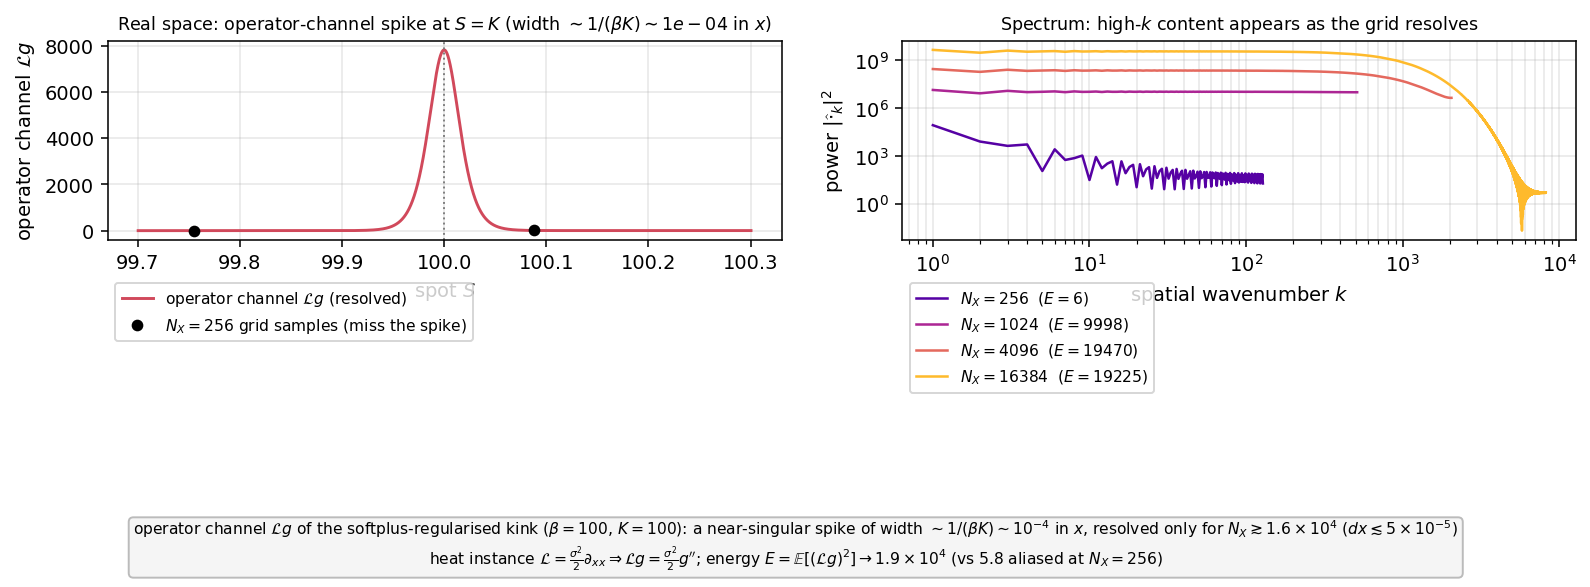
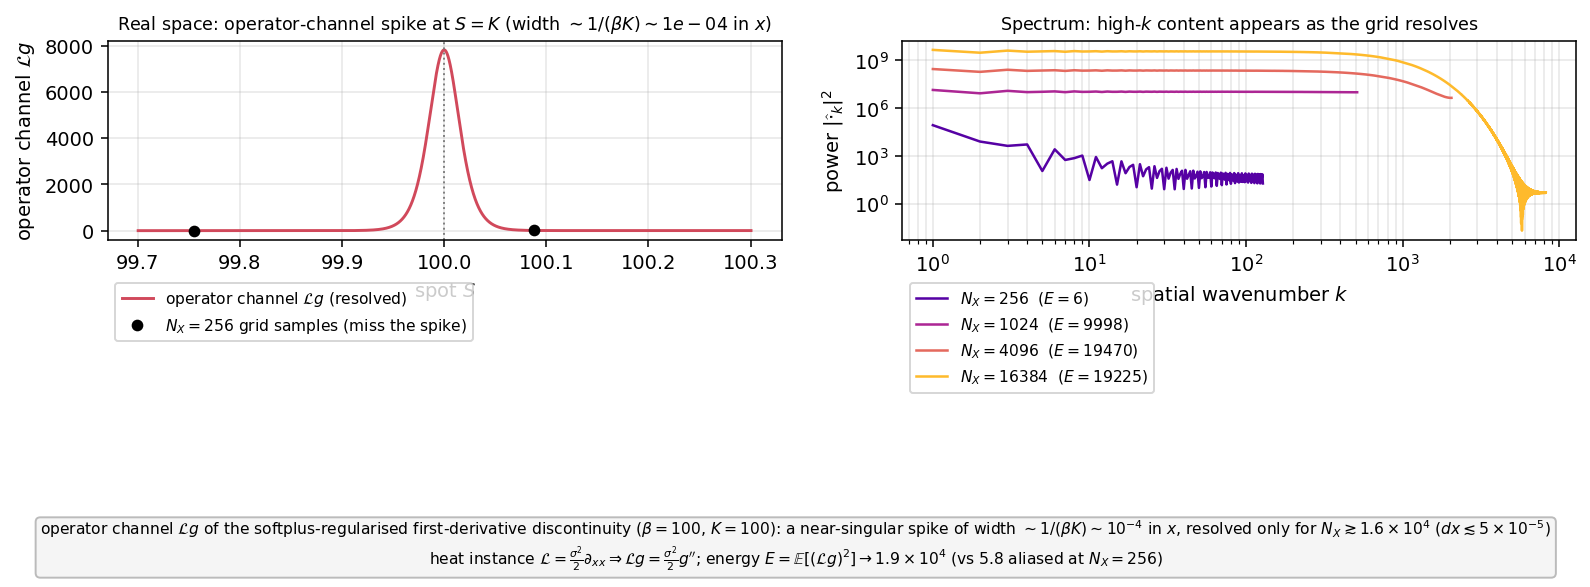
report: register cleanup in prose + regenerate figures with corrected labels
Replace 'kink' with 'first-derivative discontinuity' in the corollary,
proposition, toy-model prose, and figure captions; replace motion metaphors
(sits->lies, settles on->is). Regenerate the toy gap/amplification figures
and the operator-channel spike figure so the rendered legends/formulae read
'non-smooth'/'first-derivative discontinuity' (models unchanged; measured
values identical). Compiles clean (both passes).

Changed region(s): [[0.0308, 0.8586, 0.9862, 0.9199], [0.9245, 0.9813, 0.9862, 1.0], [0.0308, 0.9813, 0.0925, 1.0]]

diff --git a/documents/reports/2026-07-03_constrained_learning_spectral_and_induction/constrained_learning_spectral_and_induction.tex b/documents/reports/2026-07-03_constrained_learning_spectral_and_induction/constrained_learning_spectral_and_induction.tex
@@ -290,7 +290,7 @@ Chen--Mangasarian & soft     & $4.34\!\times\!10^{-3}\!\pm\!3\!\times\!10^{-4}$ 
 
 The unconstrained control ($\mathtt{pure\_nn}$) collapses to
 $\relLtwo\approx1$: the residual objective alone does not determine the solution
-(the homogeneous equation has many solutions), so the field settles on a trivial
+(the homogeneous equation has many solutions), so the learned field is a trivial
 one. It is omitted from the comparison plots for scale and is not tabulated as a
 competitor.
 
@@ -375,7 +375,7 @@ Corollary~\ref{cor:white}, and the achieved residual coincides with it across th
 band: the network cancels the low-wavenumber velocity channel but leaves the
 operator spike uncancelled (Empirical finding~\ref{find:residual}). For the
 Chen--Mangasarian extension the operator channel is band-limited and the residual
-sits far below both channels --- it is cancellable. Figure~\ref{fig:h2-spike}
+lies far below both channels --- it is cancellable. Figure~\ref{fig:h2-spike}
 shows the softplus operator channel resolving from an aliased artefact into the
 broadband plateau as the grid refines, with its band-integrated energy converging
 to $\approx1.9\times10^{4}$.
@@ -383,7 +383,7 @@ to $\approx1.9\times10^{4}$.
 \begin{figure}[htbp]\centering
   \includegraphics[width=0.98\textwidth]{figures/2026-06-12_operator_channel_spike.png}
   \caption{Resolving the softplus operator channel. Left: the curvature spike in
-    real space, which a coarse grid steps over. Right: its spectrum converging to
+    real space, which a coarse grid does not resolve. Right: its spectrum converging to
     a plateau as the grid refines.}\label{fig:h2-spike}
 \end{figure}
 
@@ -442,7 +442,7 @@ oracle (exact continuation) & --- & $1.2\times10^{-3}$\\
 \begin{figure}[htbp]\centering
   \includegraphics[width=0.82\textwidth]{figures/2026-06-13_bermudan_inception.png}
   \caption{Inception price. Solid: learned. Dashed (same colour): exact for that
-    $\numExerciseDates$. The learned values sit above the European put (a positive
+    $\numExerciseDates$. The learned values lie above the European put (a positive
     early-exercise premium) and increase with $\numExerciseDates$.}\label{fig:h3-price}
 \end{figure}
 
@@ -453,7 +453,7 @@ per-stage terminal mismatch ($\boundaryResidual\approx7\times10^{-3}$,
 Table~\ref{tab:main}) is inherited by the stage below and accumulates, whereas the
 hard form carries none. The exact-continuation oracle reaches $1.2\times10^{-3}$,
 so the representational limit of a single learned stage is small; the learned
-chain's larger error is the price of learning, rather than being handed, the
+chain's larger error is attributable to learning, rather than being supplied, the
 continuation. Measured, one seed. Hypothesis~H3 holds.
 \end{finding}
 
@@ -482,12 +482,12 @@ The close agreement at $\numExerciseDates=2,3$ ($3.18\times10^{-2}$ against
 $3.09\times10^{-2}$) does not persist: at $\numExerciseDates=10$ the inception
 error is $1.44\times10^{-1}$ and the per-date error peaks near $1.9\times10^{-1}$
 in mid-life, roughly a fivefold increase (Figure~\ref{fig:h3-prop}). Two effects
-push the same way as $\numExerciseDates$ grows: each interval is shorter, so its
+act in the same direction as $\numExerciseDates$ grows: each interval is shorter, so its
 Gaussian propagation smooths the payoff and exercise-boundary curvature less --- the
 smoothing length $\sigma\sqrt{\timeHorizon/\numExerciseDates}$ falls from $0.18$ at
 $\numExerciseDates=2$ to $0.08$ at $\numExerciseDates=10$, raising the per-stage
 operator channel by Proposition~\ref{prop:floor} --- and there are more stages to
-accumulate. The learned $\numExerciseDates=10$ inception price sits visibly below
+accumulate. The learned $\numExerciseDates=10$ inception price lies visibly below
 its exact reference for large spot. Measured, one seed; the growth rate in
 $\numExerciseDates$ is not yet characterised. Hypothesis~H4 is refuted.
 \end{observation}
@@ -547,8 +547,8 @@ moving energy towards high wavenumbers.
 Multiplication by the symbol in Fourier space, then Proposition~\ref{prop:decay}.
 \end{proof}
 
-\begin{corollary}[The operator channel of a kinked datum is white]\label{cor:white}
-For a kink ($\regularityIndex=1$) under a second-order generator
+\begin{corollary}[The operator channel of a non-differentiable datum is white]\label{cor:white}
+For a first-derivative discontinuity ($\regularityIndex=1$) under a second-order generator
 ($\operatorHalfOrder=1$) the net exponent in \eqref{eq:amp} is
 $4\operatorHalfOrder-2(\regularityIndex+1)=0$: the operator channel
 $\generatorUnderlying\payoff$ has a flat (white) spectrum and infinite
@@ -567,7 +567,7 @@ upper-cutoff dominated and
   \;\sim\;\int_{0}^{1/\smoothingScale}\wavenumber^{\,4\operatorHalfOrder-2\regularityIndex-2}\,d\wavenumber
   \;\sim\;\smoothingScale^{-(4\operatorHalfOrder-2\regularityIndex-1)} .
 \end{equation}
-For the kink under the heat operator ($\operatorHalfOrder=\regularityIndex=1$)
+For the first-derivative discontinuity under the heat operator ($\operatorHalfOrder=\regularityIndex=1$)
 this is $\norm{\generatorUnderlying\payoff_{\smoothingScale}}^{2}\sim\smoothingScale^{-1}$:
 finite once smoothed, but growing as the smoothing sharpens.
 \end{proposition}
@@ -620,12 +620,13 @@ numerical to machine precision in the reproduction script.
 \end{proof}
 
 Figure~\ref{fig:toy-gap} sweeps the cutoff $\cutoffWavenumber$: a band-limited
-datum drops to an exact cliff (an exact spectral gap gives an exact solution), a
-smooth datum falls exponentially, and a kink leaves the near-flat white plateau
+datum drops exactly to zero (an exact spectral gap gives an exact solution), a
+smooth datum falls exponentially, and a first-derivative discontinuity leaves the
+near-flat white plateau
 of Corollary~\ref{cor:white} in the residual --- yet its solution error still
 decays, because the operator inverse damps the uncancelled high modes.
 Figure~\ref{fig:toy-amp} shows the $\wavenumber^{4}$ amplification turning the
-kink's $\wavenumber^{-4}$ datum into that plateau. Figure~\ref{fig:toy-rve} shows
+first-derivative discontinuity's $\wavenumber^{-4}$ datum into that plateau. Figure~\ref{fig:toy-rve} shows
 that the residual and the error have different time profiles, so the residual is
 not a universal predictor of the error --- the link is the $\timePoint$-dependent
 operator inverse.
@@ -633,14 +634,16 @@ operator inverse.
 \begin{figure}[htbp]\centering
   \includegraphics[width=0.98\textwidth]{figures/2026-07-03_toy_gap_vs_cutoff.png}
   \caption{Ideal-filter model. Left: the uncancellable residual versus the cutoff
-    $\cutoffWavenumber$; the kink is a near-flat plateau. Right: the space-time
-    solution error; the kink still decays. Solid curves, colour-coded by datum
+    $\cutoffWavenumber$; the first-derivative discontinuity is a near-flat plateau.
+    Right: the space-time
+    solution error; the first-derivative discontinuity still decays. Solid curves,
+    colour-coded by datum
     regularity.}\label{fig:toy-gap}
 \end{figure}
 \begin{figure}[htbp]\centering
   \includegraphics[width=0.98\textwidth]{figures/2026-07-03_toy_channel_amplification.png}
   \caption{The $\wavenumber^{4}$ operator amplification. Datum spectrum (dashed)
-    and operator channel (solid): a kink's $\wavenumber^{-4}$ datum becomes a
+    and operator channel (solid): a first-derivative discontinuity's $\wavenumber^{-4}$ datum becomes a
     white plateau; a smooth datum stays below the cutoff (dotted).}\label{fig:toy-amp}
 \end{figure}
 \begin{figure}[htbp]\centering
@@ -657,7 +660,7 @@ On the high-resolution spectra of Section~\ref{sec:h2} the achieved residual of
 the sharp (softplus) extension coincides with its operator channel across the
 whole band --- their band-integrated energies agree to two significant figures
 ($6.33\times10^{3}$ against $6.34\times10^{3}$) --- while for the smooth
-(Chen--Mangasarian) extension the residual sits far below the forcing
+(Chen--Mangasarian) extension the residual lies far below the forcing
 ($8.85\times10^{-1}$). Measured, one seed, from the spectra of
 Figure~\ref{fig:h2-spectra}.
 \end{finding}
@@ -739,7 +742,7 @@ Every figure and number traces to a named script in the repository
 \texttt{constrained\_learning\_option\_pricing} and a run directory under
 \texttt{data/}. Figure scripts derive their data folder from their own filename.
 
-The scripts below sit under
+The scripts below are located under
 \fp{experiments/python_scripts/exp_ansatz_forms_heat/} unless a fuller path is
 given.
 \begin{itemize}
